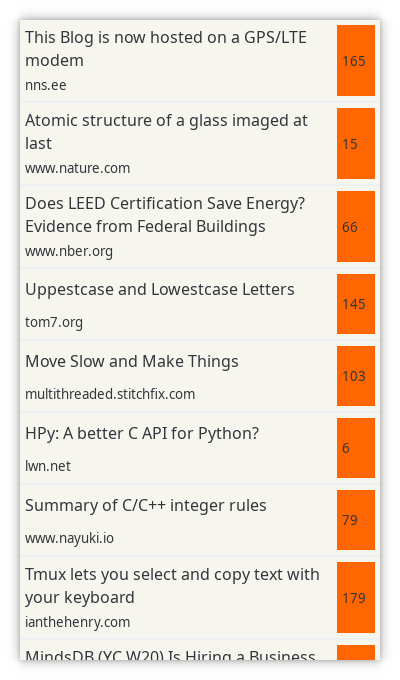
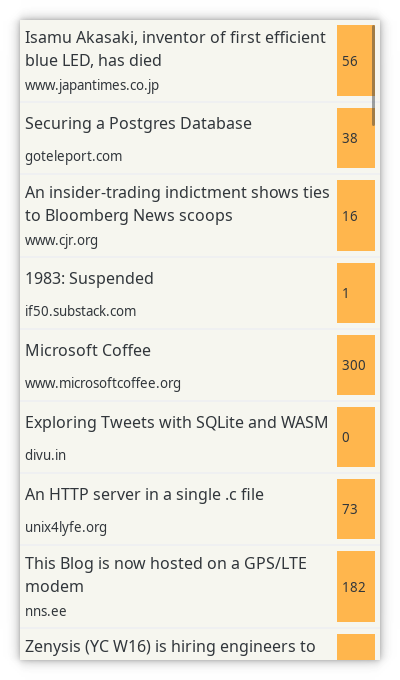
align < in thread to left, change HNs orange to materialistics

Changed region(s): [[0.06, 0.0309, 0.96, 0.9882], [0.06, 0.6176, 0.81, 0.9882]]

diff --git a/src/hn/css/style.css b/src/hn/css/style.css
@@ -9,7 +9,7 @@
 }
 .news-item-commentcount {
 	padding: 5px;
-	background-color: #ff6600;
+	background-color: #ffb64d;
 }
 .comment-item {
 	padding: 10px;
@@ -39,9 +39,15 @@
 	padding-right: 10px;
 }
 .thread-header {
-	background-color: #ff6600;
+	background-color: #ffb64d;
 	padding: 8px;
 }
+.thread-back {
+	padding: 5px;
+	margin-left: 0px;
+}
 .thread-title {
+	padding-top: 5px;
+	padding-bottom: 5px;
 	font-size: 16px;
 }

diff --git a/src/hn/hn.py b/src/hn/hn.py
@@ -135,11 +135,12 @@ class ThreadHeader(Gtk.Grid):
         self.title.set_xalign(0)
         self.title.get_style_context().add_class('thread-title')
 
-        label = Gtk.Image.new_from_icon_name(icon_name='go-previous', size=Gtk.IconSize.BUTTON)
-        label.get_style_context().add_class('thread-back')
+        back_icon = Gtk.Image.new_from_icon_name(icon_name='go-previous', size=Gtk.IconSize.BUTTON)
+        back_icon.set_halign(Gtk.Align.START)
+        back_icon.get_style_context().add_class('thread-back')
 
         back_event = Gtk.EventBox()
-        back_event.add(label)
+        back_event.add(back_icon)
         back_event.connect('button-release-event', self.back_click)
 
         self.attach(back_event, 0, 0, 1, 1)
